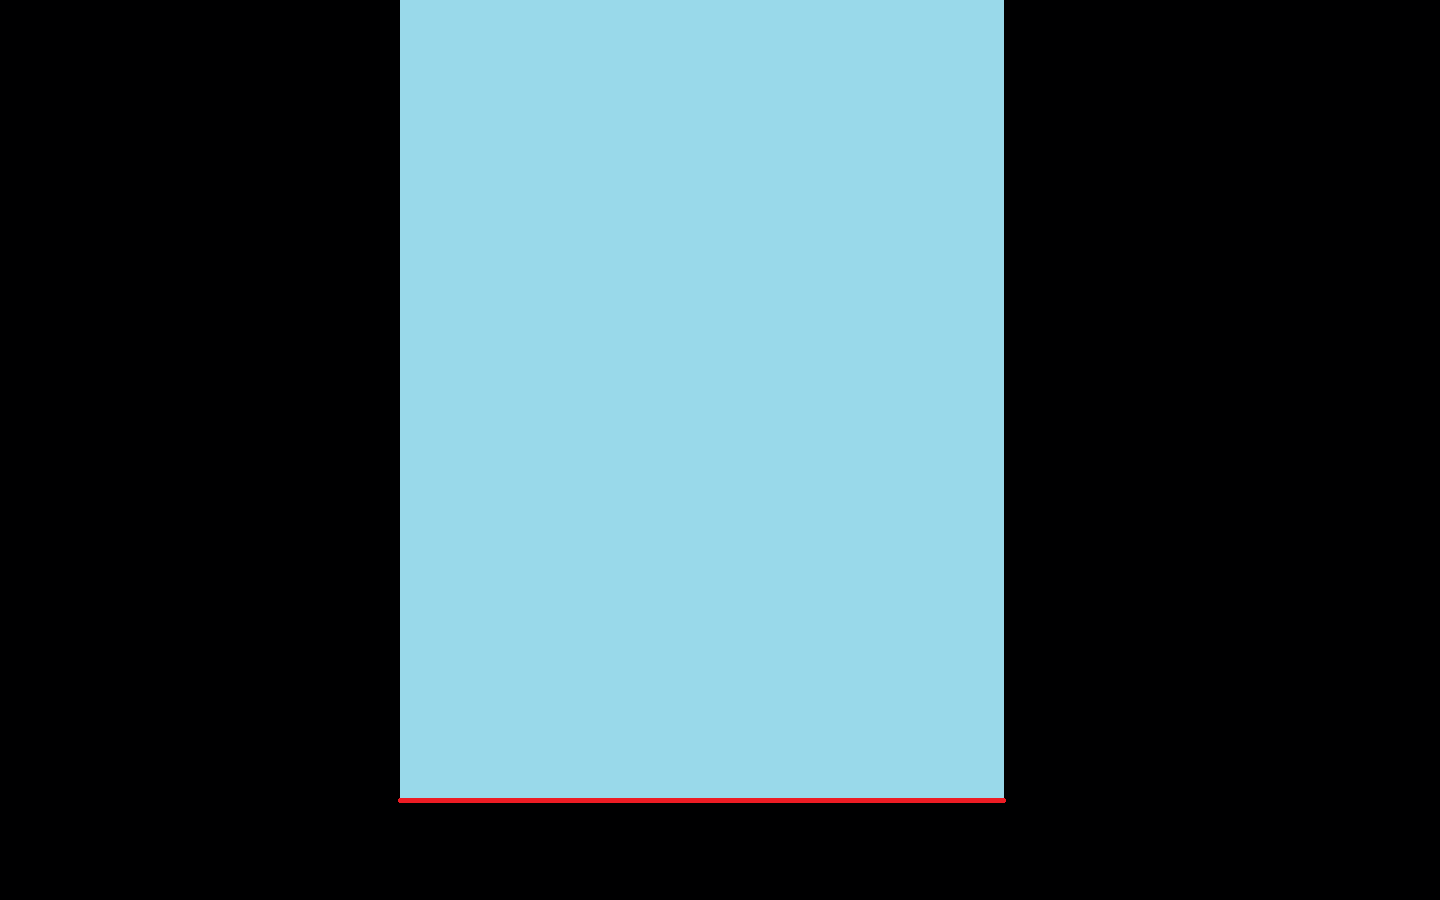
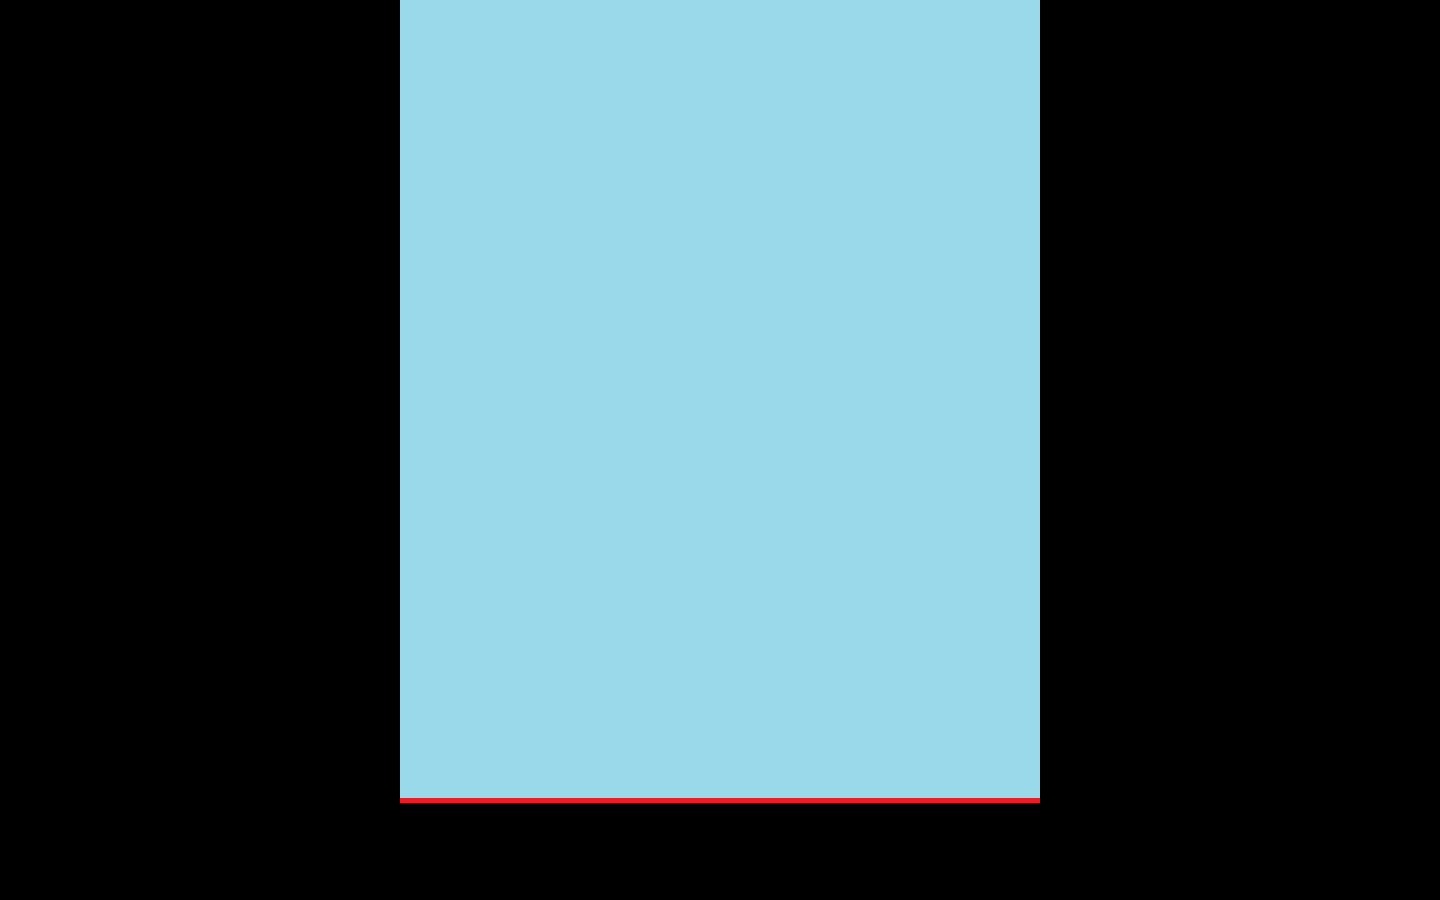
UFOとプレイヤーの座標修正

Changed region(s): [[0.6875, 0.0, 0.75, 0.9022]]

diff --git a/InvaderGame/Wall.cpp b/InvaderGame/Wall.cpp
@@ -40,7 +40,7 @@ void WALL::update(){
 	}
 }
 
-bool WALL::bulletHitTest(int _x, int _y, int _w, int _h){
+bool WALL::hitTest(int _x, int _y, int _w, int _h){
 	for (int i = 0; i < 4; i++) {
 		for (int j = 0; j < 4; j++) {
 			if (wall[i][j].getLife()) {
@@ -52,4 +52,17 @@ bool WALL::bulletHitTest(int _x, int _y, int _w, int _h){
 		}
 	}
 	return false;
+}
+
+void WALL::ehitTest(int _x, int _y, int _w, int _h){
+	for (int i = 0; i < 4; i++) {
+		for (int j = 0; j < 4; j++) {
+			if (wall[i][j].getLife()) {
+				if (wall[i][j].collision(_x, _y, _w, _h)) {
+					wall[i][j].zeroLife();
+					
+				}
+			}
+		}
+	}
 }

diff --git a/InvaderGame/Player.cpp b/InvaderGame/Player.cpp
@@ -38,7 +38,6 @@ void Player::init(){
 
 #endif // !
 
-
 	this->xspeed = 5;
 	this->life = true;
 }
@@ -48,6 +47,15 @@ void Player::draw(){
 }
 
 void Player::move() {
+#ifdef FULL_SCREEN
+	if (x <= Window::WALL_L) {
+		x = Window::WALL_L;
+	}
+
+	if (x + width >= Window::WALL_R) {
+		x = Window::WALL_R - width;
+	}
+#else
 	if (x <= 0) {
 		x = 0;
 	}
@@ -55,4 +63,7 @@ void Player::move() {
 	if (x + width >= Window::WIDTH) {
 		x = Window::WIDTH - width;
 	}
+#endif // FULL_SCREEN
+
+	
 }

diff --git a/InvaderGame/Define.h b/InvaderGame/Define.h
@@ -1,7 +1,7 @@
 #ifndef DEFINE_H
 #define DEFINE_H
 
-#define FULL_SCREEN
+//#define FULL_SCREEN
 
 #define OR ||
 #define AND &&
@@ -37,12 +37,6 @@ namespace Window {
 	static const int WALL_R = LEFT + MIDDLE;
 #endif // FULL_SCREEN
 }
-
-namespace Alian{
-	static const int W = 3;
-	static const int H = 3;
-}
-
 
 enum Status {
 	Title = 0,

diff --git a/InvaderGame/Block.cpp b/InvaderGame/Block.cpp
@@ -53,6 +53,14 @@ bool Block::getLife(){
 	return this->life;
 }
 
+void Block::zeroLife(){
+	this->count = 3;
+	if (count == 3) {
+		count = 0;
+		life = false;
+	}
+}
+
 Block & Block::operator++(int _count){
 	this->count = count + 1;
 	if (count == 4) {

diff --git a/InvaderGame/Wall.h b/InvaderGame/Wall.h
@@ -12,7 +12,8 @@ public:
 	void load();
 	void draw();
 	void update();
-	bool bulletHitTest(int _x, int _y, int _w, int _h);
+	bool hitTest(int _x, int _y, int _w, int _h);
+	void ehitTest(int _x, int _y, int _w, int _h);
 
 private:
 	Block wall[4][4];
